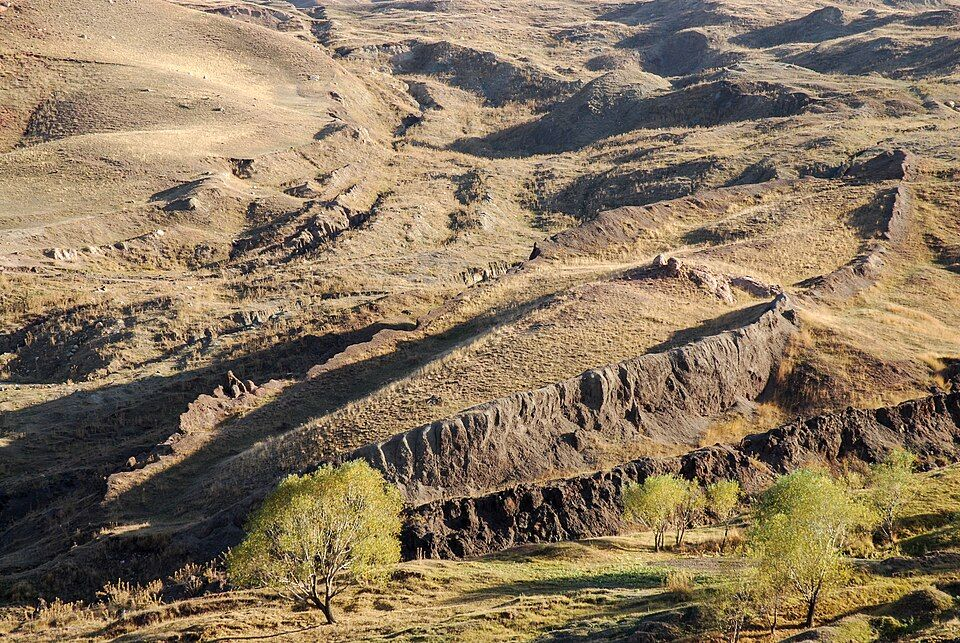
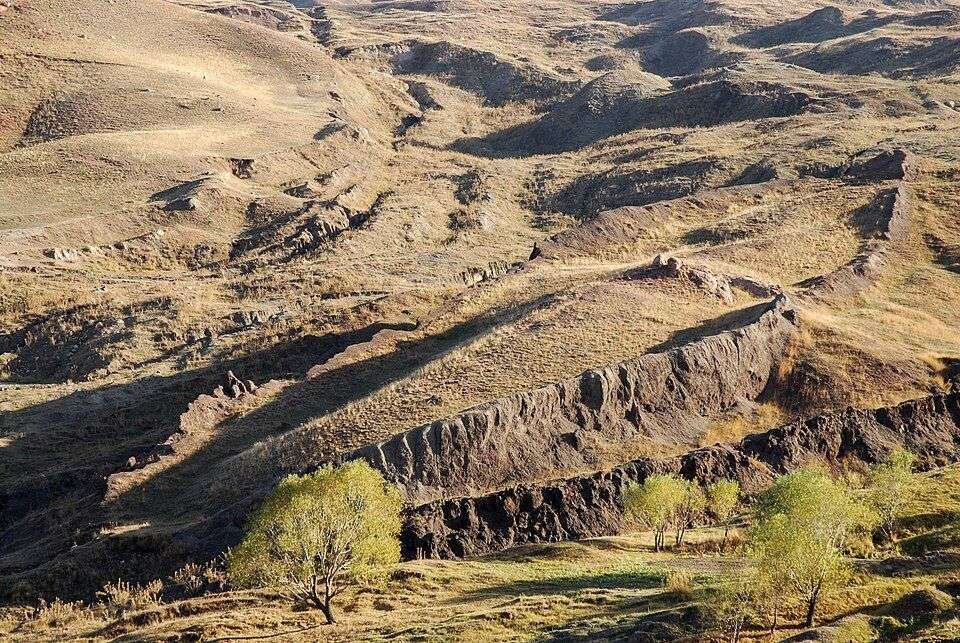
Фото и подписи: возрасты с источниками, Люси (слепок CC0), Баальбек и Саксайуаман; обожение — одна статья про 6:20; подразделы

Changed region(s): [[0.0, 0.0, 1.0, 1.0], [0.0938, 0.8087, 0.125, 0.8398]]

diff --git a/data/arguments/deification-lie.md b/data/arguments/deification-lie.md
@@ -1,11 +1,6 @@
 ---
 title: "Учение Церкви об обожении — обман сатаны"
 summary: "Обещание змея «будете как боги» — действительно обман, тут Ховинд прав. Но учение Церкви, на которое он ссылается, говорит о другом: о даре Божием во Христе, «причастии Божеского естества» по благодати. Его разделяют отцы Церкви, православные, католики и даже Кальвин."
-videos:
-  - id: Nr7tzxkszZw
-    t: 748
-    title: "Беседа 16. Разбор лекции 1, ч. 2"
-    note: "Учение об обожении в Церкви"
 ---
 
 ## Что говорит Ховинд
@@ -26,11 +21,11 @@ videos:
 
 Начнём с Писания. Апостол Пётр пишет, что мы призваны стать «причастниками Божеского естества» (2 Пет 1:4). Иоанн: «когда откроется, будем подобны Ему» (1 Ин 3:2). Павел: Бог предназначил нас «быть подобными образу Сына Своего» (Рим 8:29). Протестанты обычно называют это уподоблением Христу и освящением, а в конце времён — прославлением.
 
-В древней Церкви то же самое называли **обожением**. Слово непривычное, но смысл тот же. Православная энциклопедия объясняет: человек по благодати Божьей постепенно уподобляется Богу, становясь «богом по благодати», но «не становится Богом по существу» ([Православная энциклопедия, «Обожение»](https://www.pravenc.ru/text/2578067.html)). Первым из отцов эту мысль ясно выразил священномученик Ириней Лионский во II веке: Сын Божий стал Сыном человеческим, «чтобы человек сделался сыном Божиим» (там же).
+В древней Церкви то же самое называли **обожением**. Слово непривычное, но смысл тот же. Православная энциклопедия объясняет: человек по благодати Божьей постепенно уподобляется Богу, становясь «богом по благодати», но «не становится Богом по существу» ([Православная энциклопедия, «Обожение»](https://www.pravenc.ru/text/2578067.html)). Одним из первых эту мысль ясно выразил священномученик Ириней Лионский во II веке: Сын Божий стал Сыном человеческим, «чтобы человек сделался сыном Божиим» (Ириней, «Против ересей», 3, 19, 1; см. [Катехизис Католической Церкви, сноска 79](https://www.vatican.va/archive/ENG0015/__P1J.HTM), на англ.).
 
 ## Что на самом деле в Катехизисе
 
-Катехизис Католической Церкви (§ 460) как раз цитирует отцов. Там подряд стоят Ириней Лионский, святитель Афанасий Великий («Сын Божий стал человеком, чтобы мы стали богом») и Фома Аквинский: Сын Божий принял нашу природу, чтобы, «став человеком, сделать людей богами» ([Катехизис, § 460](https://www.vatican.va/archive/ENG0015/__P1J.HTM) (на англ.); в нём пересказано то же, что выше). Речь о даре, который Бог даёт человеку во Христе, а не о том, чтобы стать Богом без Бога.
+Катехизис Католической Церкви (§ 460) цитирует отцов. Одна из цитат — святитель Афанасий Великий: Сын Божий «пожелал сделать нас причастниками Своего Божества, принял нашу природу, чтобы, став человеком, сделать людей богами» ([Катехизис, § 460](https://www.vatican.va/archive/ENG0015/__P1J.HTM), на англ.; сноска 80 — Афанасий, «О воплощении» 54). Речь о даре, который Бог даёт человеку во Христе, «причастниками Божества», а не о том, чтобы стать Богом без Бога.
 
 Учение это не только католическое. Это основа православного богословия, а отзвук его есть и у реформаторов. Жан Кальвин, один из отцов Реформации, писал о 2 Пет 1:4, что цель Евангелия — сделать нас подобными Богу и, «если можно так сказать, обожить нас». И тут же уточнял: речь о качестве, а не о сущности ([Кальвин, комментарий на 2 Пет 1:4](https://biblehub.com/library/calvin/commentaries_on_the_catholic_epistles/2_peter_1_1-4.htm) (на англ.); Кальвин объясняет, что мы причастны не Божьей сущности, а Его святости и славе).
 

diff --git a/data/arguments/monster-carcasses.md b/data/arguments/monster-carcasses.md
@@ -57,7 +57,6 @@ videos:
 
 Бесформенные туши вроде найденной в Сент-Огастине в 1896 году называют «глобстерами». Биологи из Университета Южной Флориды изучили образцы под микроскопом и по белкам, а чилийский глобстер и по ДНК (она совпала с ДНК кашалота). Все они, в том числе «осьминог» из Сент-Огастина, оказались остатками китового жира: сам жир сгнил, а плотные волокна (коллаген), на которых он держался, остались ([Pierce et al., Biological Bulletin, 2004](https://pubmed.ncbi.nlm.nih.gov/15198938/), на англ.).
 
-<figure class="diagram"><img src="/hovind-check/images/monster-carcasses/st-augustine-1896.jpg" alt="Старый чёрно-белый снимок: на песчаном пляже на досках лежит бесформенная серая груда с волокнистыми лохмотьями по краям; ни головы, ни костей, ни щупалец не видно" loading="lazy" width="604" height="376" style="width:100%;max-width:420px;height:auto;display:block;margin:0 auto;border-radius:8px"><figcaption>Туша на пляже Сент-Огастина (Флорида), 1896 год. Именно её считали «гигантским осьминогом»; её образцы хранятся в Смитсоновском институте, и по ним оказалось, что это китовый жир. Фото: автор неизвестен, общественное достояние, <a href="https://commons.wikimedia.org/wiki/File:St_augustine_carcass.jpg">Wikimedia Commons</a>.</figcaption></figure>
 
 ### Итог проверок
 
